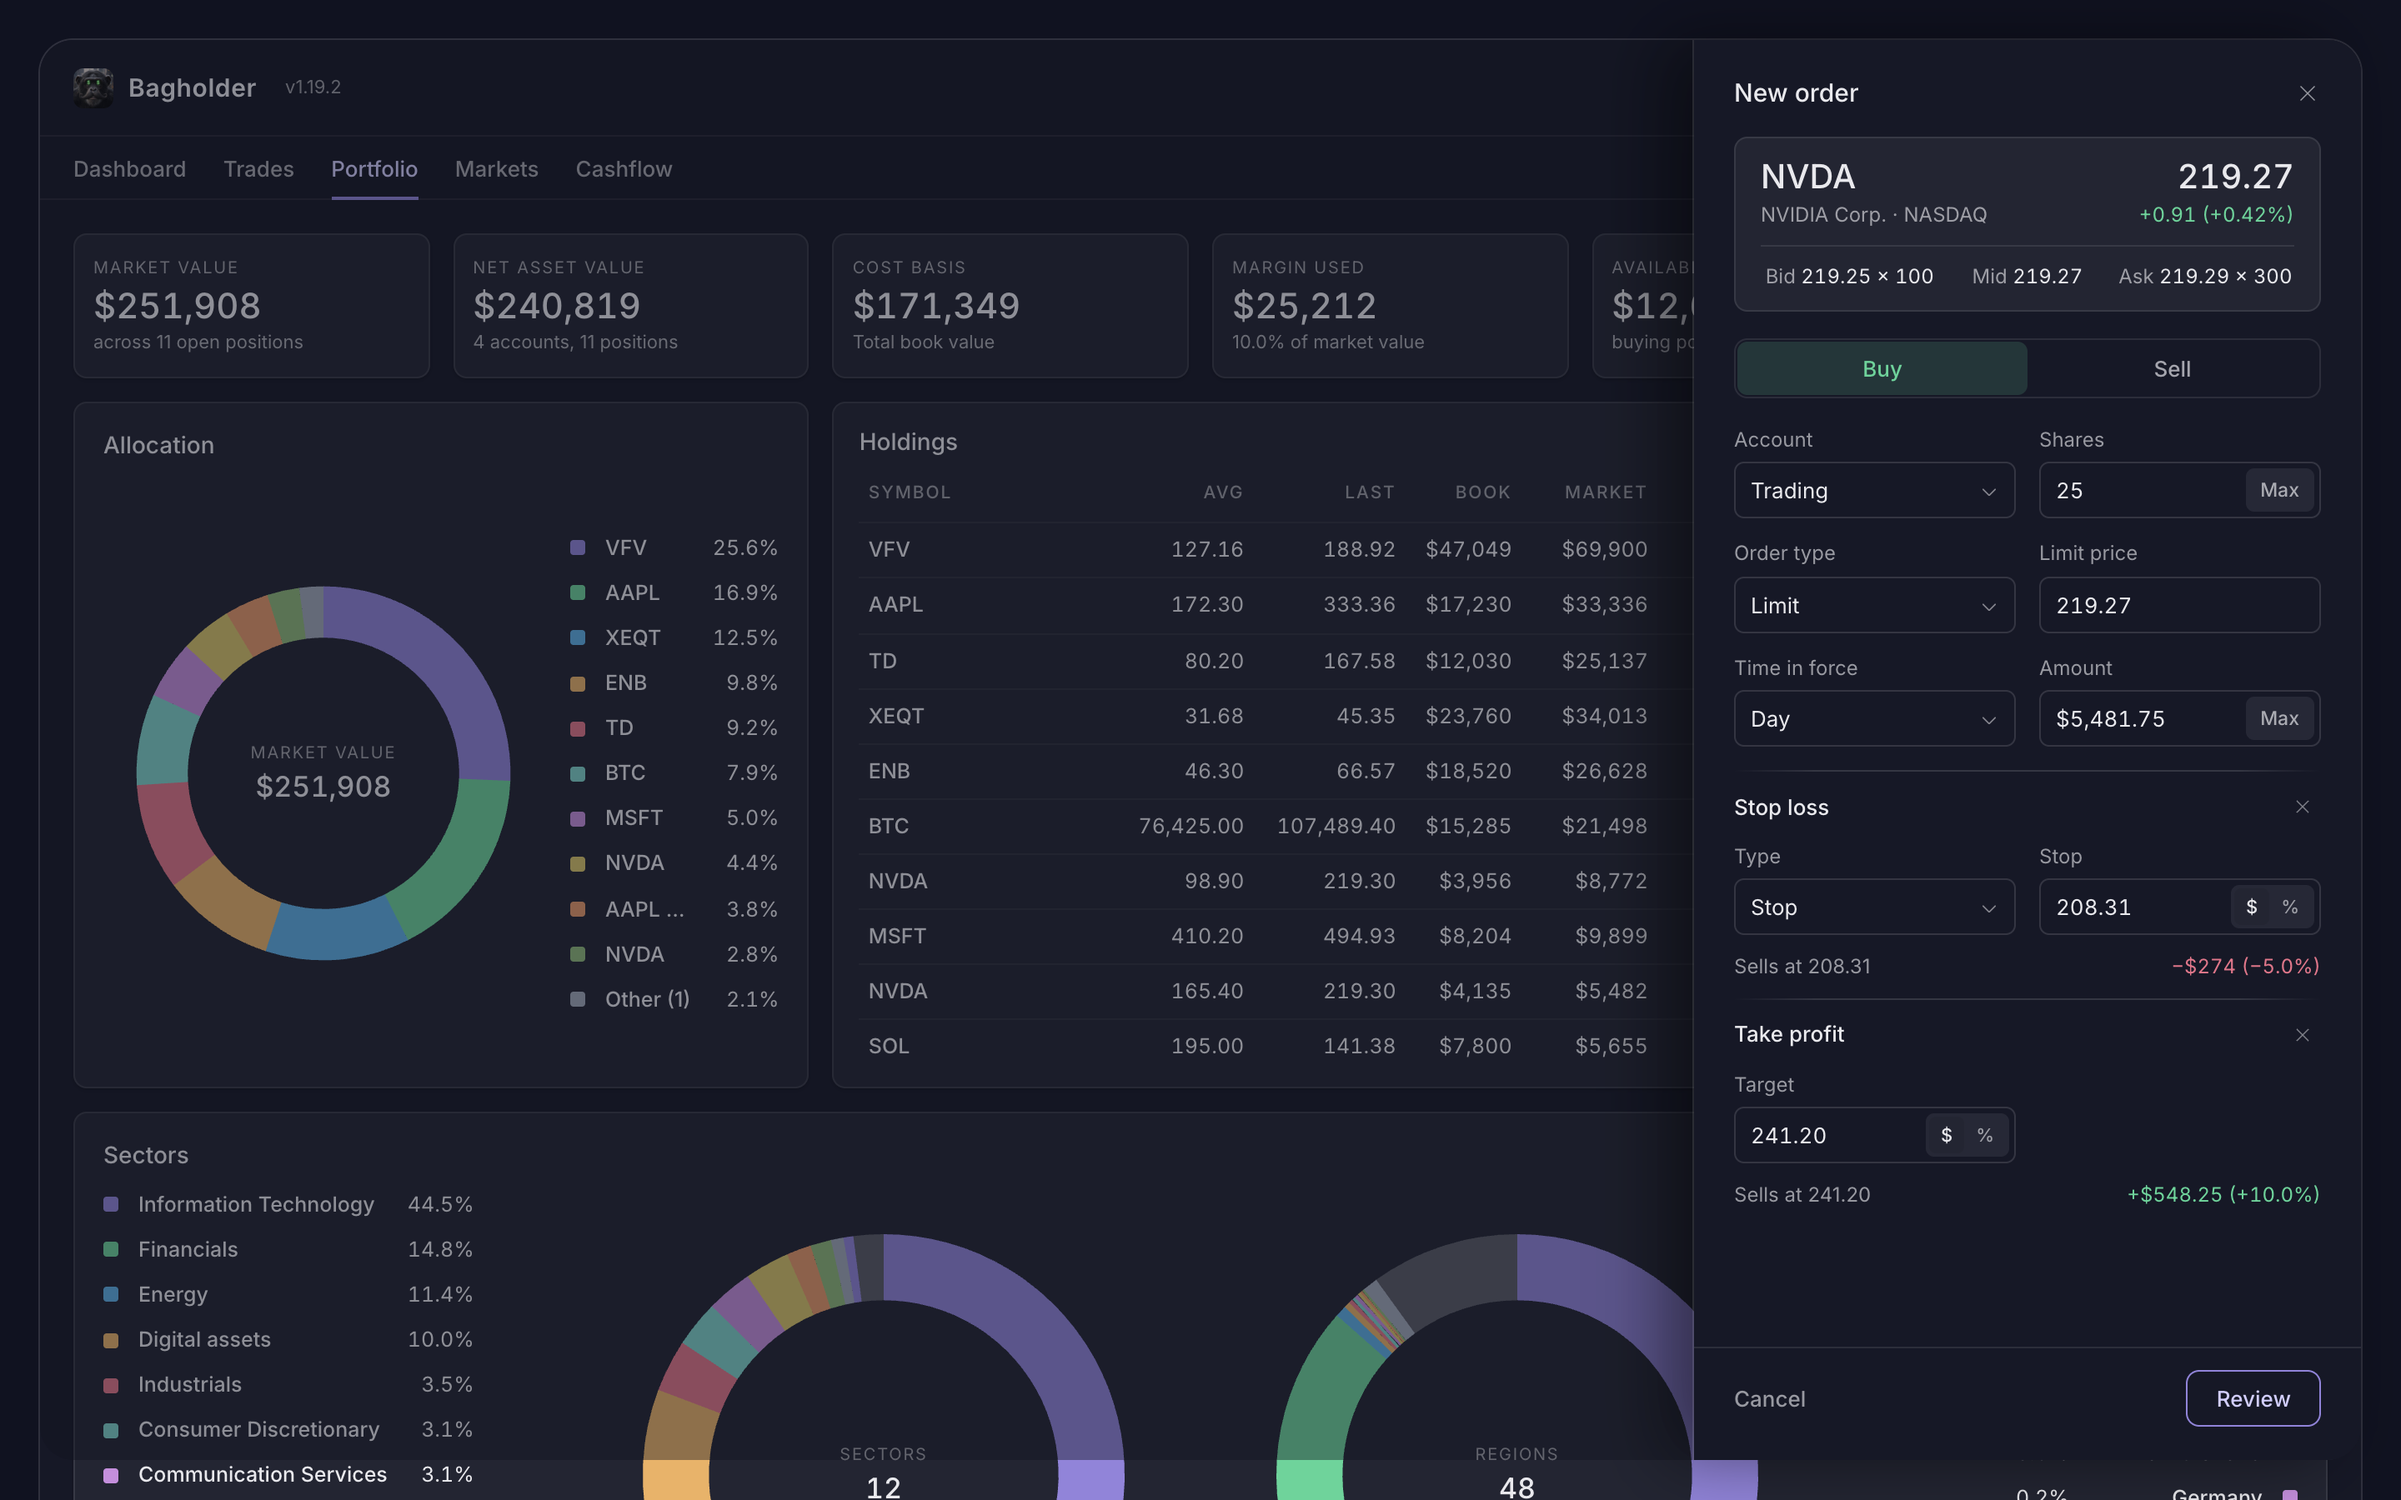
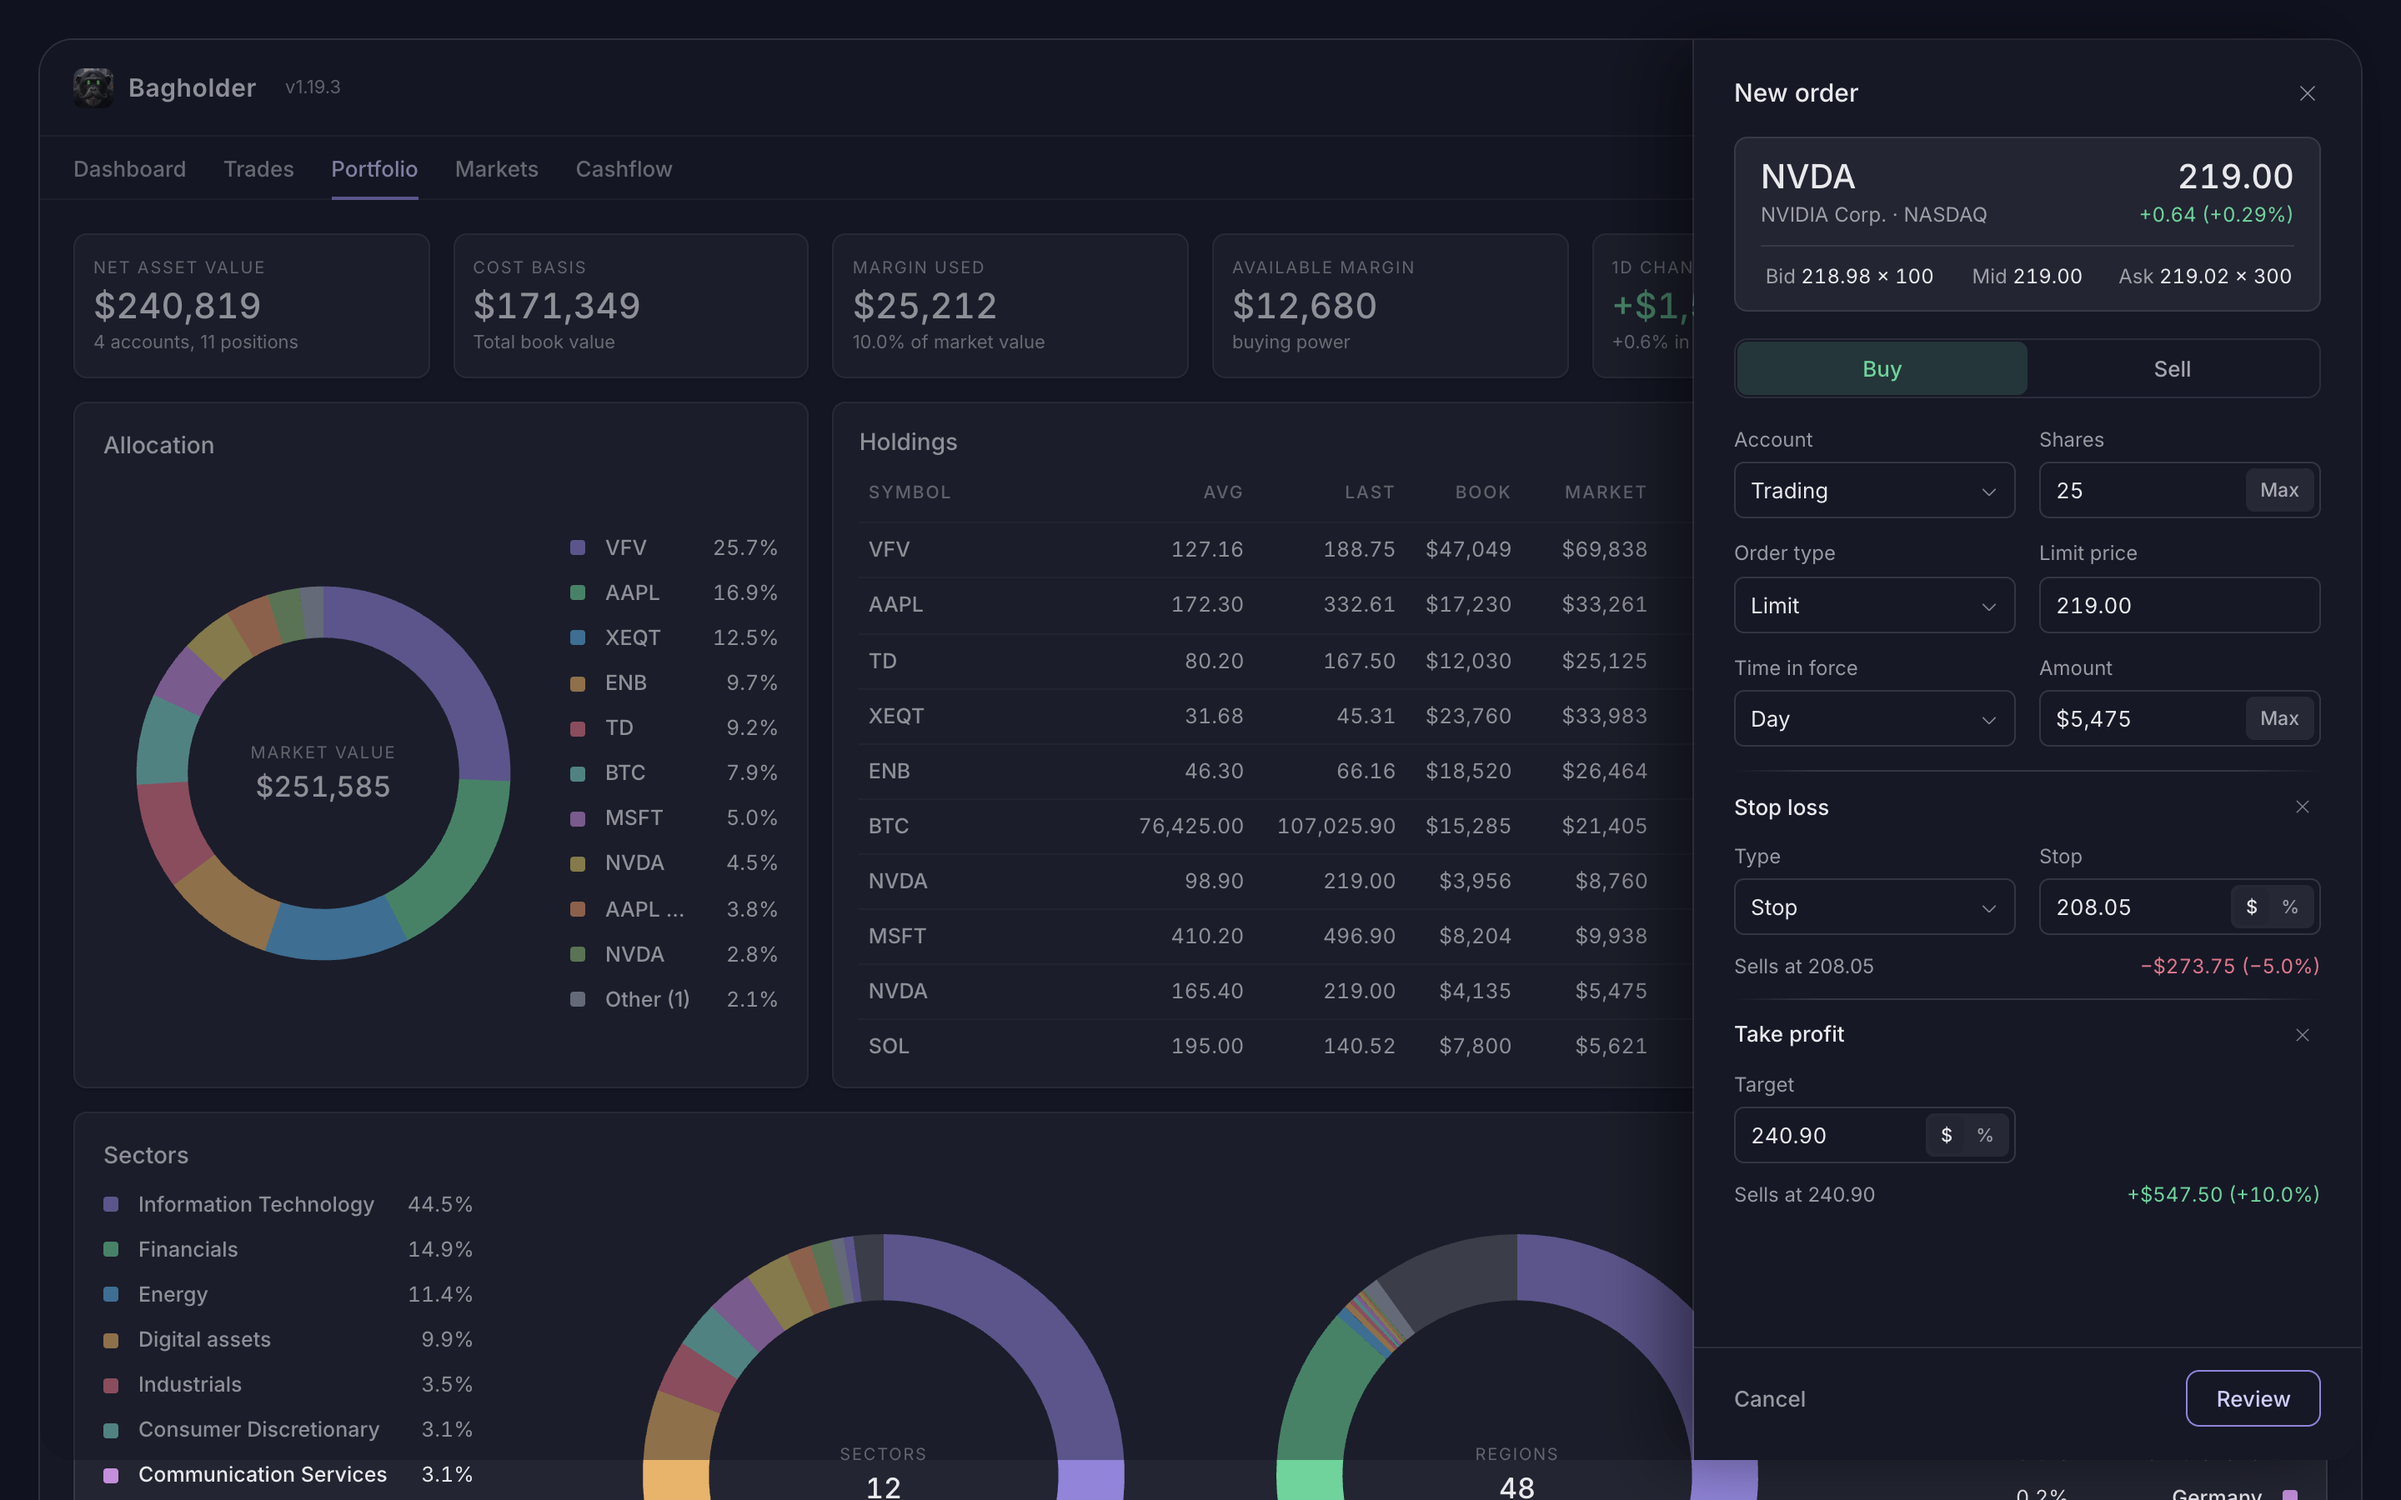
Portfolio tiles: Market value goes, 1d change comes; the other tiles unchanged.
The Market value tile said what the Allocation donut's centre already says.
Its place goes to 1d change: the day's change of the quoted positions in
scope in dollars, signed and coloured, with its percentage beneath as
"+x% in last 24h". With a margin account the row is Net asset value, Cost
basis, Margin used, Available margin, 1d change, Unrealized P&L; without
one, Cash takes the two margin tiles' place and the row is five.

The README stills and tour are re-shot on the new row, with the fixture's
header at v1.19.3 and its orders back to the seeded set.

diff --git a/ledger.html b/ledger.html
@@ -2230,17 +2230,16 @@ function portfolioTilesHtml(pf) {
   const n = pf.positionCount || 0;
   const positions = n + (n === 1 ? " position" : " positions");
   const unavailable = pf.availableMarginUnavailable || [];
-  return '<div style="display:grid;grid-template-columns:repeat(6,minmax(0,1fr));gap:14px">' +
-    tile("Market value", money0(pf.marketValue), "across " + n + (n === 1 ? " open position" : " open positions")) +
-    tile("Net asset value", pf.nav == null ? "—" : money0(pf.nav), pf.nav == null ? "—" : pf.navAccounts + (pf.navAccounts === 1 ? " account, " : " accounts, ") + positions) +
+  // Market value has no tile: the Allocation donut's centre carries it
+  const tiles = tile("Net asset value", pf.nav == null ? "—" : money0(pf.nav), pf.nav == null ? "—" : pf.navAccounts + (pf.navAccounts === 1 ? " account, " : " accounts, ") + positions) +
     tile("Cost basis", money0(pf.costBasis), "Total book value") +
     (pf.hasMargin
       ? tile("Margin used", money0(pf.marginUsed), pf.marginUsedPct == null ? "—" : pctPlain(pf.marginUsedPct) + " of market value") +
         tile("Available margin", pf.availableMargin == null ? "—" : money0(pf.availableMargin), unavailable.length ? "unavailable for " + esc(unavailable.join(", ")) : pf.availableMargin == null ? "—" : "buying power")
-      : tile("Cash", money0(pf.cash), pf.cashPct == null ? "—" : pctPlain(pf.cashPct) + " of net asset value") +
-        tile("Day change", pf.dayChange == null ? "—" : signedMoney(pf.dayChange, null, 2), pf.dayChangePct == null ? "—" : pct(pf.dayChangePct) + " today", pf.dayChange == null ? "" : cls(pf.dayChange))) +
-    tile("Unrealized P&amp;L", signedMoney(pf.unrealized, null, 2), pf.unrealizedPct == null ? "—" : pct(pf.unrealizedPct) + (pf.unrealized >= 0 ? " gain" : " loss"), cls(pf.unrealized)) +
-    "</div>";
+      : tile("Cash", money0(pf.cash), pf.cashPct == null ? "—" : pctPlain(pf.cashPct) + " of net asset value")) +
+    tile("1d change", pf.dayChange == null ? "—" : signedMoney(pf.dayChange, null, 2), pf.dayChangePct == null ? "—" : pct(pf.dayChangePct) + " in last 24h", pf.dayChange == null ? "" : cls(pf.dayChange)) +
+    tile("Unrealized P&amp;L", signedMoney(pf.unrealized, null, 2), pf.unrealizedPct == null ? "—" : pct(pf.unrealizedPct) + (pf.unrealized >= 0 ? " gain" : " loss"), cls(pf.unrealized));
+  return '<div style="display:grid;grid-template-columns:repeat(' + (pf.hasMargin ? 6 : 5) + ',minmax(0,1fr));gap:14px">' + tiles + "</div>";
 }
 function portfolioSlices(pf) {
   const all = pf.allocation || [];

diff --git a/SPEC.md b/SPEC.md
@@ -194,17 +194,16 @@ Bars are cached in the database. Closed days are written once and never rewritte
 
 ### Portfolio
 
-Six tiles in the style of the dashboard tiles, CAD aggregates over the accounts in scope (every account when the filter names none). The two margin tiles show when an open account in scope is a margin account (its type contains `MARGIN`); otherwise Cash and Day change take their places, so the row is always six:
+Tiles in the style of the dashboard tiles, CAD aggregates over the accounts in scope (every account when the filter names none). There is no Market value tile: the Allocation donut's centre carries that figure. The two margin tiles show when an open account in scope is a margin account (its type contains `MARGIN`), six tiles in all; otherwise Cash takes their place and the row is five:
 
 | Tile | Value | Subtitle |
 |---|---|---|
-| Market value | Market value of the open positions in scope, converted at today's rate | `across N open positions` |
 | Net asset value | Sum of Wealthsimple's net liquidation value per account, as Wealthsimple states it; every open account counts, cash accounts included, so it differs from Market value by the cash; closed accounts never count | `N accounts, N positions`, or `—` when no account in scope reports one |
 | Cost basis | Book value of the open positions in scope | `Total book value` |
 | Margin used | The negative cash balances of the accounts in scope, one per currency, shown positive, converted to CAD | Its share of Market value |
 | Available margin | Sum of Wealthsimple's buying power over the open margin accounts in scope, the figure Wealthsimple labels Margin available. Only margin accounts are asked: every self-directed account answers the same query with the cash it could buy with, which is not margin | `buying power`; `unavailable for <account>` when Wealthsimple cannot price a security in it; `—` with no margin account in scope |
 | Cash (no margin account in scope) | The positive cash balances of the accounts in scope, one per currency, converted to CAD | Its share of Net asset value, or `—` without one |
-| Day change (no margin account in scope) | The day's change of every quoted open position in scope (quantity × the quote's price change, reversed on a short), converted to CAD, signed and coloured; `—` when nothing has a quote | That change over what those positions were worth at the previous close, `x% today` |
+| 1d change | The day's change of every quoted open position in scope (quantity × the quote's price change, reversed on a short), converted to CAD, signed and coloured; `—` when nothing has a quote | That change over what those positions were worth at the previous close, signed, `+x% in last 24h` |
 | Unrealized P&L | Unrealized P&L of the open positions in scope, converted at today's rate | Its percentage of Cost basis, `gain` or `loss` |
 
 Nothing on the tab is derived beyond these sums: Max buying power, Portfolio value and the interest panel of Wealthsimple's margin page have no source and are not shown.
